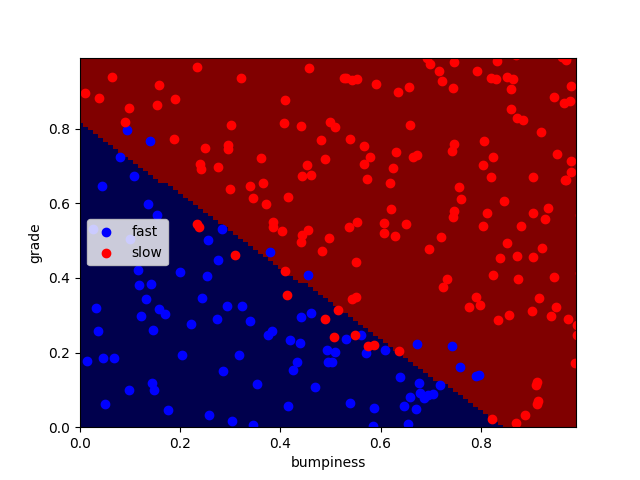
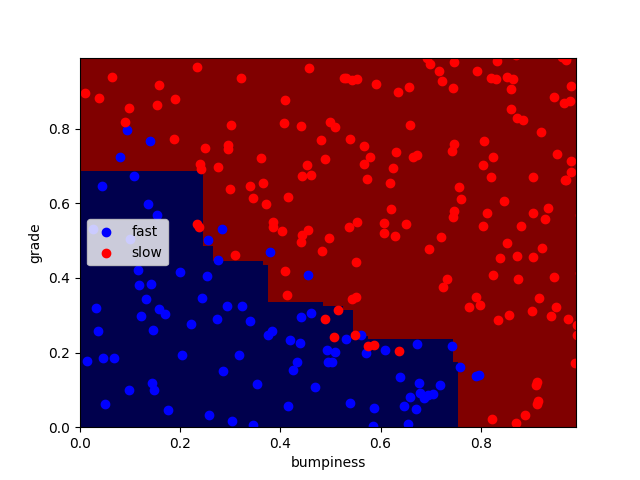
tested random forest algo

Changed region(s): [[0.125, 0.25, 0.5625, 0.6875], [0.5625, 0.6875, 0.7188, 0.8125], [0.7188, 0.8125, 0.7812, 0.9062]]

diff --git a/choose_your_own/your_algorithm.py b/choose_your_own/your_algorithm.py
@@ -17,14 +17,14 @@ bumpy_slow = [features_train[ii][1] for ii in range(0, len(features_train)) if l
 
 
 #### initial visualization
-plt.xlim(0.0, 1.0)
-plt.ylim(0.0, 1.0)
-plt.scatter(bumpy_fast, grade_fast, color = "b", label="fast")
-plt.scatter(grade_slow, bumpy_slow, color = "r", label="slow")
-plt.legend()
-plt.xlabel("bumpiness")
-plt.ylabel("grade")
-plt.show()
+# plt.xlim(0.0, 1.0)
+# plt.ylim(0.0, 1.0)
+# plt.scatter(bumpy_fast, grade_fast, color = "b", label="fast")
+# plt.scatter(grade_slow, bumpy_slow, color = "r", label="slow")
+# plt.legend()
+# plt.xlabel("bumpiness")
+# plt.ylabel("grade")
+# plt.show()
 ################################################################################
 
 
@@ -32,22 +32,30 @@ plt.show()
 ### visualization code (prettyPicture) to show you the decision boundary
 # SVM
 # Import SVC from sklearn library
-from sklearn.svm import SVC
+from sklearn.ensemble import RandomForestClassifier
+from sklearn.metrics import accuracy_score
 
 # Instantiate the classifier
-# Parameters of an SVM; C, Gamma, Kernel
-
-clf = SVC(kernel='linear', gamma=1)
+# Using Random forest 
+clf =RandomForestClassifier(min_samples_split= 50, max_features='sqrt', n_estimators=1000)
 
 # Fit the SVC
 clf.fit(features_train, labels_train)
 
 # Predict using the testing features
-clf.predict(features_test)
+pred = clf.predict(features_test)
 
-# Plot the SVC Plot
-try:
-    prettyPicture(clf, features_test, labels_test)
-    plt.show()
-except NameError:
-    pass
+# Measure the accuracy of the model
+accuracy = accuracy_score(pred, labels_test)
+print(f'Accuracy: {accuracy}')
+
+# # Plot the SVC Plot
+# try:
+#     prettyPicture(clf, features_test, labels_test)
+#     plt.show()
+# except NameError:
+#     pass
+
+'''
+    Accuracy of random forest classifier: 0.924
+'''
